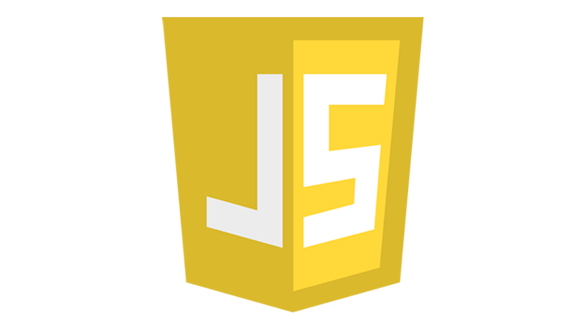
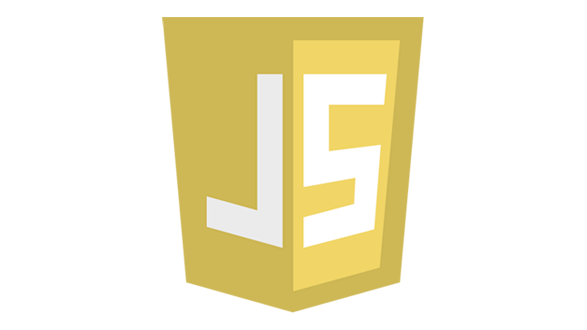
Update css, html, images

Changed region(s): [[0.276, 0.0303, 0.7359, 0.9394]]

diff --git a/assets/css/custom.css b/assets/css/custom.css
@@ -1,161 +1,28 @@
 /* Shared
 –––––––––––––––––––––––––––––––––––––––––––––––––– */
-.button {
+html {
+  background-image: url(../images/js.png);
+  background-repeat: no-repeat;
+  background-position: right bottom;
+  background-size: 587px 330px;
+}
+
+body {
+  font-size: large;
+  filter: none;
+}
+
+.button-primary {
     border-radius: 100px;
+    font-size: .75em;
   }
 
 .one-half.column {
   width: 48%;
   margin-top: 25%;
 }
-  
-  /* Sections
-  –––––––––––––––––––––––––––––––––––––––––––––––––– */
-  .section {
-    padding: 8rem 0 7rem;
-    text-align: center;
-  }
-  .section-heading,
-  .section-description {
-    margin-bottom: 1.2rem;
-  }
-  
-  /* Hero
-  –––––––––––––––––––––––––––––––––––––––––––––––––– */
-  .jschallengeimg {
-    float: right;
-    filter: saturate(60%);
-  }
 
-  /* .phones {
-    position: relative;
-  }
-  .phone {
-    position: relative;
-    max-width: 80%;
-    margin: 3rem auto -12rem;
-  }
-  .phone + .phone {
-    display: none;
-  } */
-  
-  /* Values
-  –––––––––––––––––––––––––––––––––––––––––––––––––– */
-  .values {
-    background-image: url('../images/values-bg.jpg');
-    background-size: cover;
-    color: #fff;
-    padding-bottom: 5rem;
-  }
-  .value-multiplier {
-    margin-bottom: .5rem;
-    color: #11DFC7;
-  }
-  .value-heading {
-    margin-bottom: .3rem;
-  }
-  .value-description {
-    opacity: .8;
-    font-weight: 300;
-  }
-  
-  /* Help
-  –––––––––––––––––––––––––––––––––––––––––––––––––– */
-  .get-help {
-    border-bottom: 1px solid #ddd;
-  }
-  
-  /* Categories
-  –––––––––––––––––––––––––––––––––––––––––––––––––– */
-  .categories {
-    background-image: url('../images/values-bg.jpg');
-    background-size: cover;
-    color: #fff;
-  }
-  .categories .section-description { 
-    margin-bottom: 4rem;
-  }
-  
-  /* Bigger than 550 */
-  @media (min-width: 550px) {
-    .section {
-      padding: 12rem 0 11rem;
-    }
-    .hero {
-      padding-bottom: 12rem;
-      text-align: left;
-      height: 165px;
-    }
-    .phone {
-      position: absolute;
-      top: -7rem;
-      right: 3rem;
-      max-height: 362px;
-      z-index: 3;
-    }
-    .phone + .phone {
-      top: -6rem;
-      display: block;
-      max-width: 73.8%;
-      right: 0;
-      z-index: 2;
-      max-height: 338px;
-    }
-    .hero-heading {
-      font-size: 2.4rem;
-    }
-  }
-  
-  /* Bigger than 750 */
-  @media (min-width: 750px) {
-    .hero {
-      height: 190px;
-    }
-    .hero-heading {
-      font-size: 2.6rem;
-    }
-    .section {
-      padding: 14rem 0 15rem;
-    }
-    .hero {
-      padding: 16rem 0 14rem;
-    }
-    .section-description {
-      max-width: 60%;
-      margin-left: auto;
-      margin-right: auto;
-    }
-    .phone {
-      top: -14rem;
-      right: 5rem;
-      max-height: 510px;
-    }
-    .phone + .phone {
-      top: -12rem;
-      max-height: 472px;
-    }
-    .categories {
-      padding: 15rem 0 8rem;
-    }
-  }
-  
-  /* Bigger than 1000 */
-  @media (min-width: 1000px) {
-    .section {
-      padding: 20rem 0 19rem;
-    }
-    .hero {
-      padding: 22rem 0;
-    }
-    .hero-heading {
-      font-size: 3.0rem;
-    }
-    .phone {
-      top: -16rem;
-      max-height: 615px;
-    }
-    .phone + .phone {
-      top: -14rem;
-      max-height: 570px;
-    }
-  }
+a {
+  color: blue; }
+a:hover {
+  color: lightblue; }

diff --git a/index.html b/index.html
@@ -56,9 +56,6 @@
       </div>
     </div>
   </div>
-  <div>
-    <img src="./assets/images/js.png" alt="JavaScript image" class="jschallengeimg">
-  </div>
   <!-- End Document
   –––––––––––––––––––––––––––––––––––––––––––––––––– -->
 </body>
